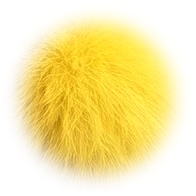
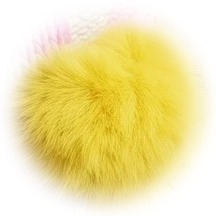
Нове новорічне курча (кращий рендер), чіткі краї

diff --git a/index.html b/index.html
@@ -271,7 +271,7 @@ body:not(.ny) .snowfall, body:not(.ny) .snowcap{display:none}   /* snow belongs 
 .decor-frame .game{padding-top:calc(255px*var(--s) + 2px)}
 .decor-frame .offer{padding-bottom:calc(120px*var(--s) + 48px)}
 /* New Year chick in a hat is taller: narrower box, same bottom line */
-.ny .rig{left:18%;width:64%;aspect-ratio:1000/1213}
+.ny .rig{left:14%;width:70%;aspect-ratio:1000/1084}
 /* spin the knife round to switch the season: a grab zone over the blade and a turning dashed ring as the hint */
 .knife-hit{position:absolute;left:50%;top:18%;width:52%;height:52%;z-index:6;border-radius:50%;cursor:grab;touch-action:none;-webkit-tap-highlight-color:transparent}
 .knife-hit:active{cursor:grabbing}
@@ -656,8 +656,8 @@ const NY_BY_DATE=(()=>{ const n=new Date(); return n>=new Date(NY_FROM+"T00:00:0
 let NY = QS.get("ny")==="1" ? true : QS.get("ny")==="0" ? false : NY_BY_DATE;
 /* Positions are % of each chick image */
 const CHICKS={
-  ny:  {ny:true, src:"ny-chick.webp", blink:"ny-blink.webp", paw:"ny-paw.webp", ar:1213/1000, w:1000, h:1213, bow:false,
-        knife:{l:55.6,t:47.5,w:48}, pawPos:{l:57.3,t:55.89,w:19.6}, blinkPos:{l:29.7,t:39.08,w:42}},
+  ny:  {ny:true, src:"ny-chick.webp", blink:"ny-blink.webp", paw:"ny-paw.webp", ar:1084/1000, w:1000, h:1084, bow:false,
+        knife:{l:58.4,t:50.6,w:46}, pawPos:{l:58.6,t:58.3,w:21.6}, blinkPos:{l:30.8,t:37.73,w:38.6}},
   base:{ny:false, src:"v2-chick.webp", blink:"v2-blink.webp", paw:"v2-paw.webp", ar:743/760, w:760, h:743, bow:true,
         knife:{l:58.13,t:43.34,w:50}, pawPos:{l:58.29,t:52.76,w:23.68}, blinkPos:{l:32.43,t:36.3,w:41.13}}
 };
